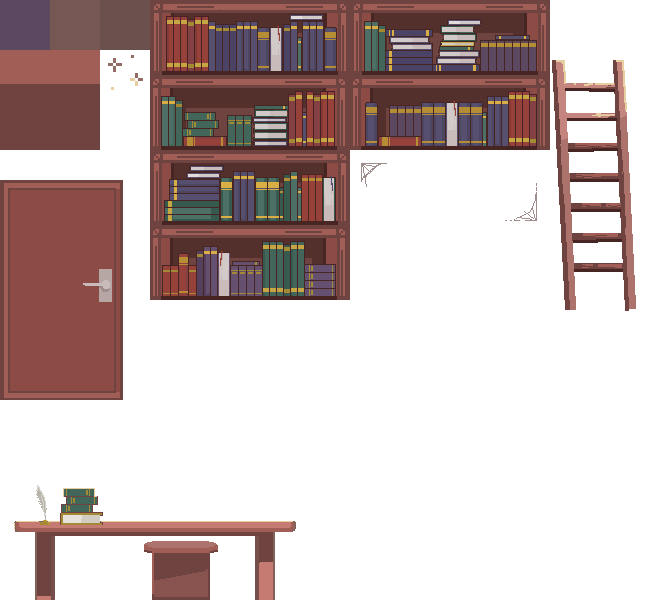
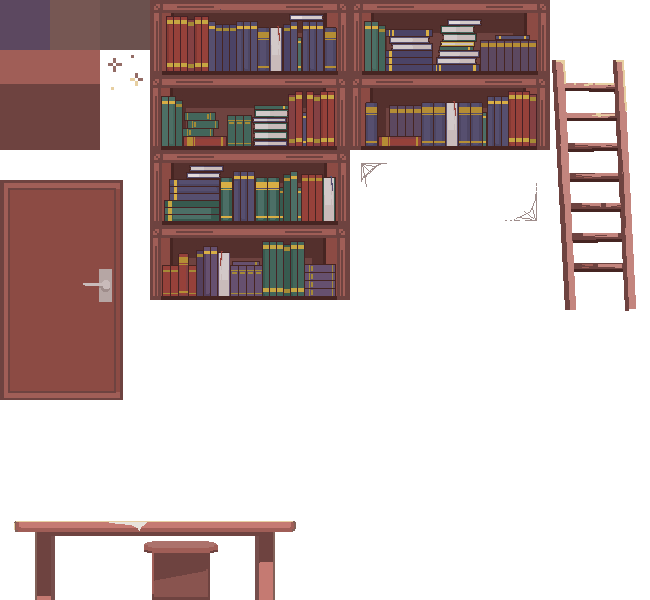
stage6'

diff --git a/assets/js/stages/SixthStage.js b/assets/js/stages/SixthStage.js
@@ -35,14 +35,35 @@ export default class SixthStage extends Phaser.Scene {
         
         const tileset = map.addTilesetImage("map_stage6", "stage6_tiles"); //name of tileset(which is same as Png tileset) , source
         this.worldLayer = map.createLayer("background", tileset, 0, 0);// Parameters: layer name (or index) from Tiled, tileset, x, y
+        this.deco = map.createLayer("deco", tileset, 0, 0);
+
+        //도서관의 배경 불빛 애니메이션 생성
+        this.anims.create({
+            key: "light",
+            frames: this.anims.generateFrameNumbers('librarylight',{ start: 0, end: 2}), 
+            frameRate: 5,
+            repeat: -1
+        });
+
+        this.background1 = this.add.sprite( 600, 200, 'librarylight', 0).setOrigin(0,1);
+        //this.background2 = this.add.sprite( 600, 400, 'librarylight', 0).setOrigin(0,1);
+        this.background3 = this.add.sprite( 100, 250, 'librarylight', 0).setOrigin(0,1);
+        this.background4 = this.add.sprite( 1100, 250, 'librarylight', 0).setOrigin(0,1);
+
+        this.background1.play('light',true);
+       // this.background2.play('light',true);
+        this.background3.play('light',true);
+        this.background4.play('light',true);
 
         /*** npc 불러오기 ***/ //npc가 필요해서... 일단 ㅎㅎ 
         // this.npc_chef = this.add.image(350,250,'npc_chef').setOrigin(0,0);
         // this.npc_chef.setInteractive();
-        this.sadari = this.add.image(700, 280, 'sadari').setOrigin(0,0);
 
-        this.devil = this.add.image(720,170,'npc_chef').setOrigin(0,0);
+        this.devil = this.add.image(214,159,'librarian2').setOrigin(0,0);
         this.devil.setInteractive();
+        
+        //책 이미지 불러오기
+        this.books = this.add.image(700,380,'books');
 
         /***스폰 포인트 설정하기 locate spawn point***/
         const spawnPoint = map.findObject("spawn", obj => obj.name === "spawn_point");
@@ -73,6 +94,23 @@ export default class SixthStage extends Phaser.Scene {
         /*** 카메라가 비추는 화면 변수 선언 ***/
         this.worldView = this.cameras.main.worldView;
 
+        //플레이어 위 pressX 생성해두기(door)
+        this.pressX_1 = this.add.text(this.player.player.x, this.player.player.y-125, 'Press X to Exit', {
+            fontFamily: ' Courier',
+            color: '#000000'
+        }).setOrigin(0,0);
+
+        //플레이어 위 pressX 생성해두기(책 얻기)
+        this.pressX_getbook = this.add.text(this.player.player.x, this.player.player.y-125, 'Press X to GET books', {
+            fontFamily: ' Courier',
+            color: '#ffffff'
+        }).setOrigin(0,0);
+
+        //플레이어 위 pressX 생성해두기(책 주기)
+        this.pressX_return_book = this.add.text(this.player.player.x, this.player.player.y-125, 'Press X to return books', {
+            fontFamily: ' Courier',
+            color: '#ffffff'
+        }).setOrigin(0,0);
 
         /*** 명령창 불러오기 ***/
         this.codeapp_onoff_state = 0; // 명령창 열리고 닫힘을 나타내는 상태 변수 (command, draganddrop에서 쓰임)
@@ -144,8 +182,7 @@ export default class SixthStage extends Phaser.Scene {
         this.page3 = this.add.image(580, 170, 'page3');
         this.page3.setVisible(false); 
 
-        this.presspkey = false;
-        this.somethingup = false;
+        this.somethingup = false; //플래그변수
         this.quiz1 = false;
         this.quiz2 = false;
         this.quizimage = this.add.image(600, 300, 'indexQuiz');
@@ -300,23 +337,34 @@ export default class SixthStage extends Phaser.Scene {
         this.playerCoord.x = this.worldView.x + 900;
         this.playerCoord.y = this.worldView.y + 10;
 
-        if(this.presspkey === true){
-            if(this.keyP.isDown) {
+        //1. 책 주변으로 갔을때 X누르면 머리위로 책 얻음!
+        if( this.player.player.x > 650 && this.player.player.x < 730 && this.somethingup == false){
+            this.pressX_getbook.x = this.player.player.x-50;
+            this.pressX_getbook.y = this.player.player.y-100;
+
+            this.pressX_getbook.setVisible(true);
+            if(this.keyX.isDown) {
                 this.somethingup = true;
-                this.book_text.setVisible(false);
             }
         }
+        else this.pressX_getbook.setVisible(false);
+
+        //2. 책 X키로 얻었을때, 책이 머리위로 뜨도록
         if(this.somethingup === true){
-            this.books.x = this.player.player.x + 40;
-            this.books.y = 330;
+            this.books.x = this.player.player.x + 5;
+            this.books.y = this.player.player.y - 95;
         }
-        if(this.player.player.x >= 400 && this.somethingup === true && this.keyP.isDown === true){
-            this.books.x = this.player.player.x + 40;
-            this.books.y = 330;
-            this.stage6_3();
-            this.presspkey = false;
-            this.somethingup = false;
+
+        //3.책 얻은 상태로 npc한테 줄때
+        if(this.player.player.x > 220 && this.player.player.x < 350 && this.somethingup === true){
+            this.pressX_return_book.setVisible(true);
+
+            if(this.keyX.isDown) {
+                this.somethingup = false;
+                this.stage6_3();
+            }
         }
+        else this.pressX_return_book.setVisible(false);
 
         if(this.quiz1 === true){
             this.quizimage.setVisible(true);
@@ -408,6 +456,26 @@ export default class SixthStage extends Phaser.Scene {
             this.scene.sleep('sixth_stage'); //방으로 돌아왔을 때 플레이어가 문 앞에 있도록 stop 말고 sleep (이전 위치 기억)
             this.scene.run("fifth_stage");
         }
+        /* 문앞에 가서 stage4감. */
+        if(this.player.player.x < 200 && 0 < this.player.player.x ) {
+            this.pressX_1.x = this.player.player.x-50;
+            this.pressX_1.y = this.player.player.y-100;
+            this.pressX_1.setVisible(true);
+        
+            if(this.keyX.isDown) {
+                this.cameras.main.fadeOut(100, 0, 0, 0); //is not a function error
+                console.log('stage4로 맵이동');
+
+                
+                /** 휴대폰 킨 상태로 맵 이동했을때 휴대폰 꺼져있도록**/
+                this.command.remove_phone(this);
+
+
+                this.scene.stop('sixth_stage'); //방으로 돌아왔을 때 플레이어가 문 앞에 있도록 stop 말고 sleep (이전 위치 기억)
+                this.scene.run("fifth_stage");
+            }
+        }
+        else this.pressX_1.setVisible(false);
 
     }
 
@@ -438,12 +506,10 @@ export default class SixthStage extends Phaser.Scene {
             .load(this.dialog.stage6_2, this.dialog)
             .start();
             seq.on('complete', () => {
-                this.books = this.add.image(230,380,'books');
-                this.book_text = this.add.text(230, 330, "이 책들을 npc에게 전달해줍시다! 줍는 키 : p", { font: '16px Courier', fill: '#A81FF7' });
-                this.presspkey = true;
+                
             });
     }
-
+    //책을 npc한테 줬을시
     stage6_3() {
         this.books.destroy();
         this.bookswhy = this.add.image(650, 380, 'bookswhy');

diff --git a/assets/js/Start.js b/assets/js/Start.js
@@ -211,6 +211,8 @@ class Start extends Phaser.Scene {
       this.load.image("library_membership", "./assets/images/stage5/membership.png");
       
       /** 6번째 스테이지 이미지 로드 **/
+      this.load.image("librarian2", "./assets/images/stage6/librarian2.png");
+
       this.load.image("page1", "./assets/images/stage6/bookPage1.png");
       this.load.image("page2", "./assets/images/stage6/bookPage2.png");
       this.load.image("page3", "./assets/images/stage6/bookPage3.png");

diff --git a/assets/js/Dialog.js b/assets/js/Dialog.js
@@ -803,6 +803,8 @@ visible(visible) {
     ['wait-click'],
     ['print', '아무튼 잘됐다! 책 정리하는 것 좀 도와줘!'],
     ['wait-click'],
+    ['print', '저기 책상위에 책 보이지? 나한테 좀 줘봐!'],
+    ['wait-click'],
 
     ['visible',false],
   ]
